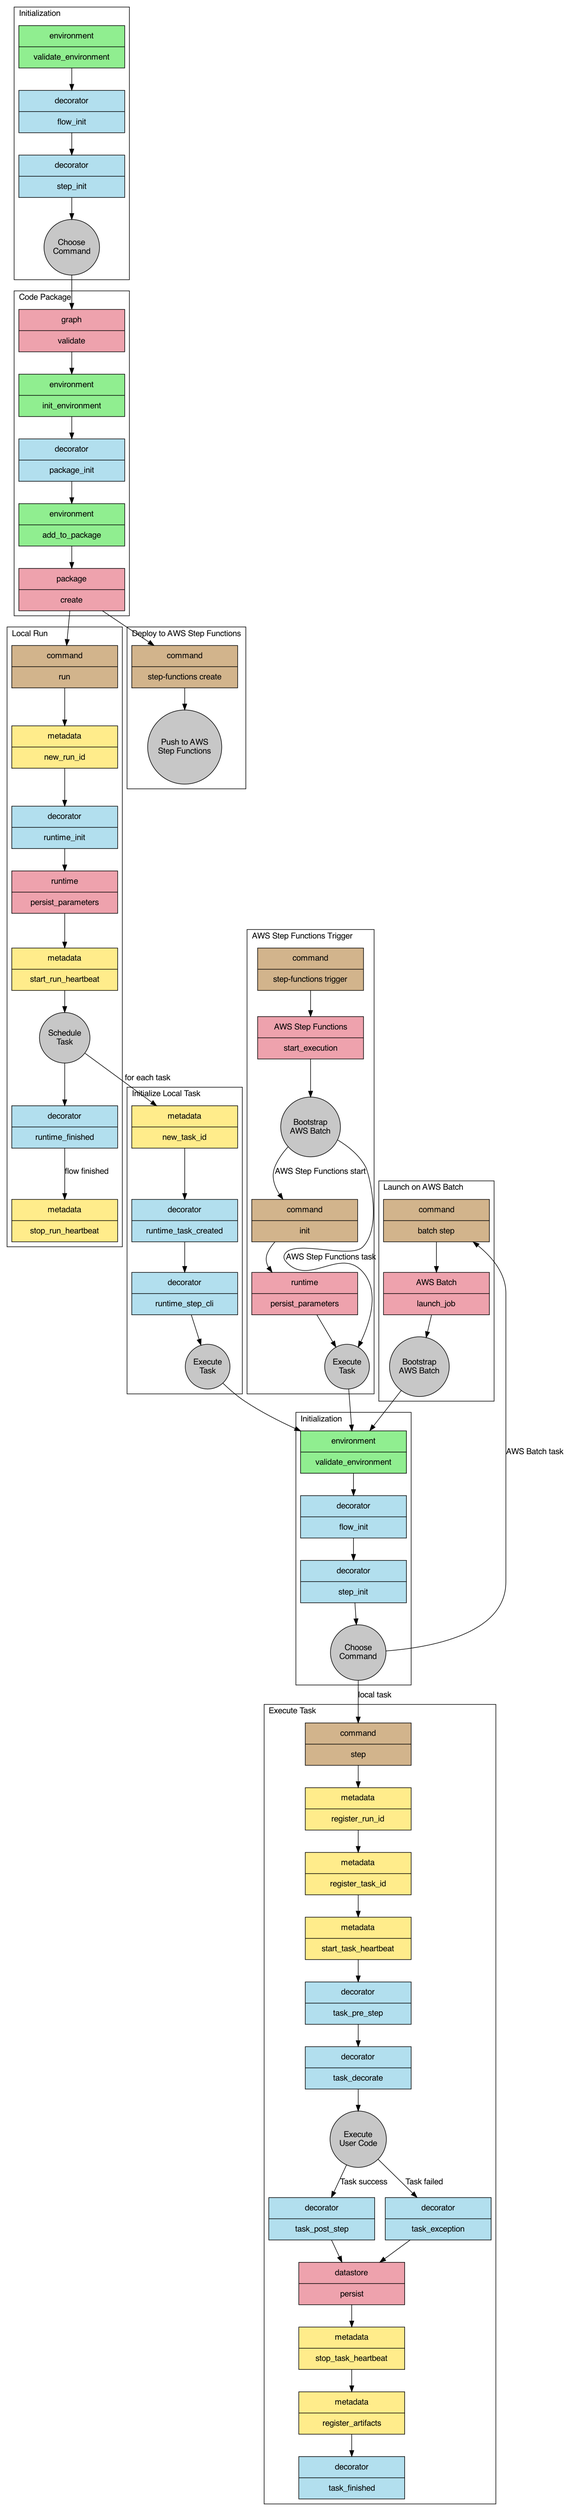
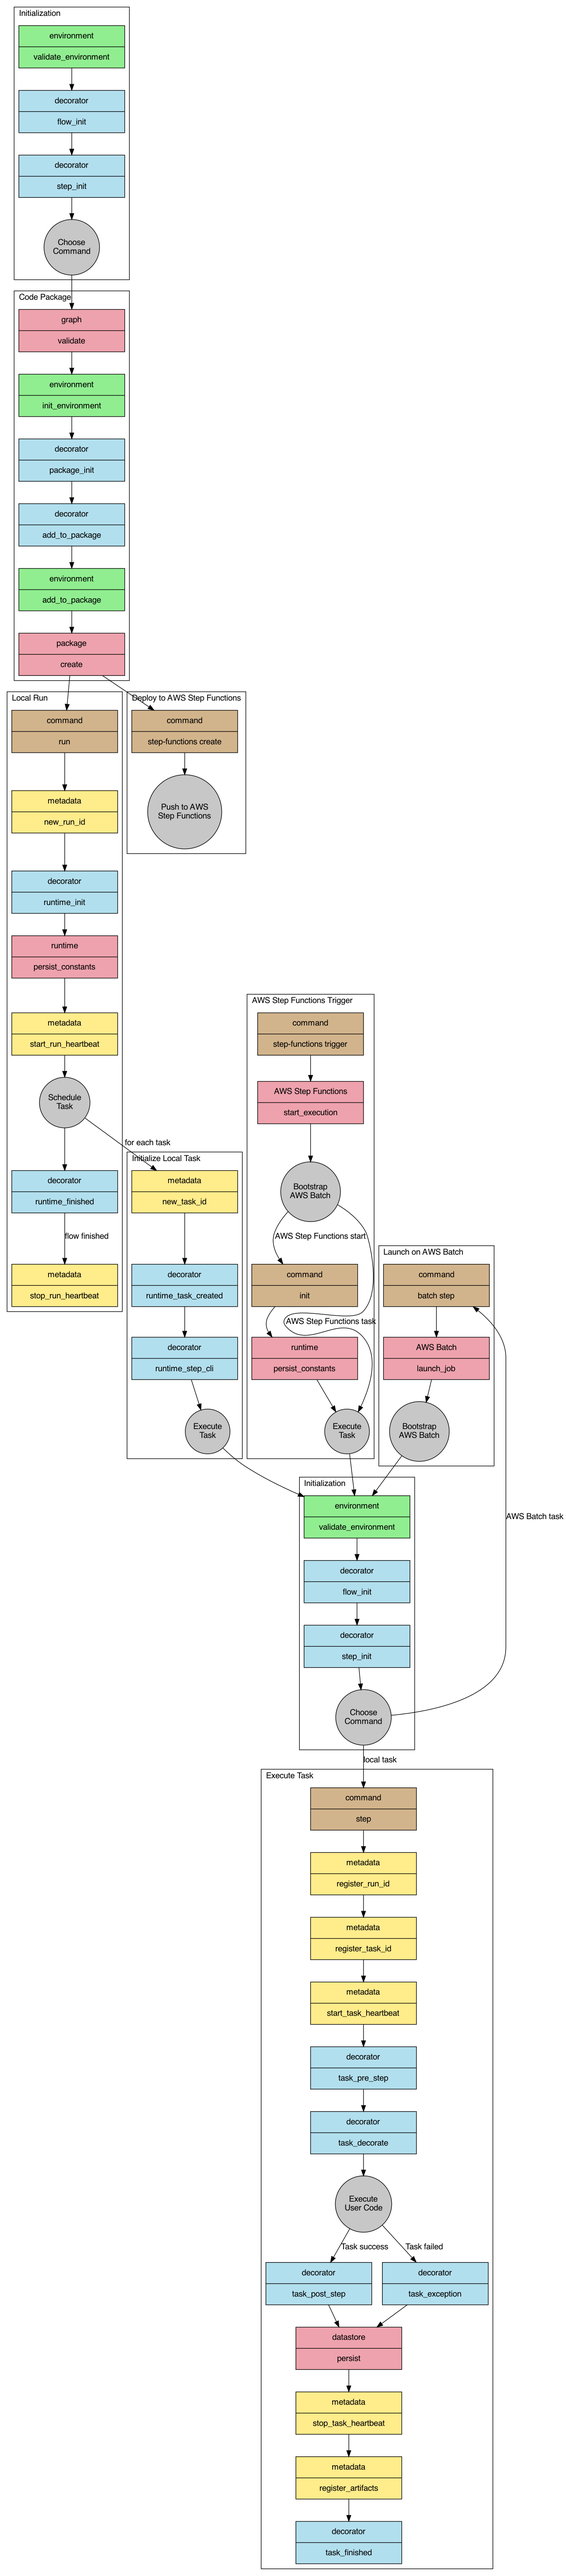
`add_to_package` decorator hook. (#834)
* `add_to_package` decorator hook.
- Cherry picking diff from card branch.

* comment fix.

* supported including the same file as different name
- Fixed comment.

* Updated comment.

* updated comment with more context.

* Refactoring logic for readability/correctness.

* - Simplifying logic
- nit fixes (spaces after commas)
- lifecycle PNG updated.

Changed region(s): [[0.0, 0.0, 0.873, 0.9958], [0.4988, 0.6535, 0.53, 0.6846]]

diff --git a/metaflow/package.py b/metaflow/package.py
@@ -7,10 +7,23 @@ from io import BytesIO
 from itertools import chain
 
 from .metaflow_config import DEFAULT_PACKAGE_SUFFIXES
+from .exception import MetaflowException
 from .util import to_unicode
 from . import R
 
 DEFAULT_SUFFIXES_LIST = DEFAULT_PACKAGE_SUFFIXES.split(",")
+
+
+class NonUniqueFileNameToFilePathMappingException(MetaflowException):
+    headline = "Non Unique file path for a file name included in code package"
+
+    def __init__(self, filename, file_paths, lineno=None):
+        msg = (
+            "Filename %s included in the code package includes multiple different paths for the same name : %s.\n"
+            "The `filename` in the `add_to_package` decorator hook requires a unqiue `file_path` to `file_name` mapping"
+            % (filename, ", ".join(file_paths))
+        )
+        super().__init__(msg=msg, lineno=lineno)
 
 
 class MetaflowPackage(object):
@@ -31,6 +44,7 @@ class MetaflowPackage(object):
             )
 
         self.flow_name = flow.name
+        self._flow = flow
         self.create_time = time.time()
         environment.init_environment(echo)
         for step in flow:
@@ -75,6 +89,23 @@ class MetaflowPackage(object):
                 addl_suffixes=self.metaflow_extensions_addl_suffixes,
             ):
                 yield path_tuple
+
+        # Any custom packages exposed via decorators
+        deco_module_paths = {}
+        for step in self._flow:
+            for deco in step.decorators:
+                for path_tuple in deco.add_to_package():
+                    file_path, file_name = path_tuple
+                    # Check if the path is not duplicated as
+                    # many steps can have the same packages being imported
+                    if file_name not in deco_module_paths:
+                        deco_module_paths[file_name] = file_path
+                        yield path_tuple
+                    elif deco_module_paths[file_name] != file_path:
+                        raise NonUniqueFileNameToFilePathMappingException(
+                            file_name, [deco_module_paths[file_name], file_path]
+                        )
+
         # the package folders for environment
         for path_tuple in self.environment.add_to_package():
             yield path_tuple

diff --git a/metaflow/decorators.py b/metaflow/decorators.py
@@ -239,6 +239,20 @@ class StepDecorator(Decorator):
         """
         pass
 
+    def add_to_package(self):
+        """
+        Called to add custom packages needed for a decorator. This hook will be
+        called in the `MetaflowPackage` class where metaflow compiles the code package
+        tarball. This hook is invoked in the `MetaflowPackage`'s `path_tuples`
+        function. The `path_tuples` function is a generator that yields a tuple of
+        `(file_path, arcname)`.`file_path` is the path of the file in the local file system;
+        the `arcname` is the path of the file in the constructed tarball or the path of the file
+        after decompressing the tarball.
+
+        Returns a list of tuples where each tuple represents (file_path, arcname)
+        """
+        return []
+
     def step_task_retry_count(self):
         """
         Called to determine the number of times this task should be retried.
